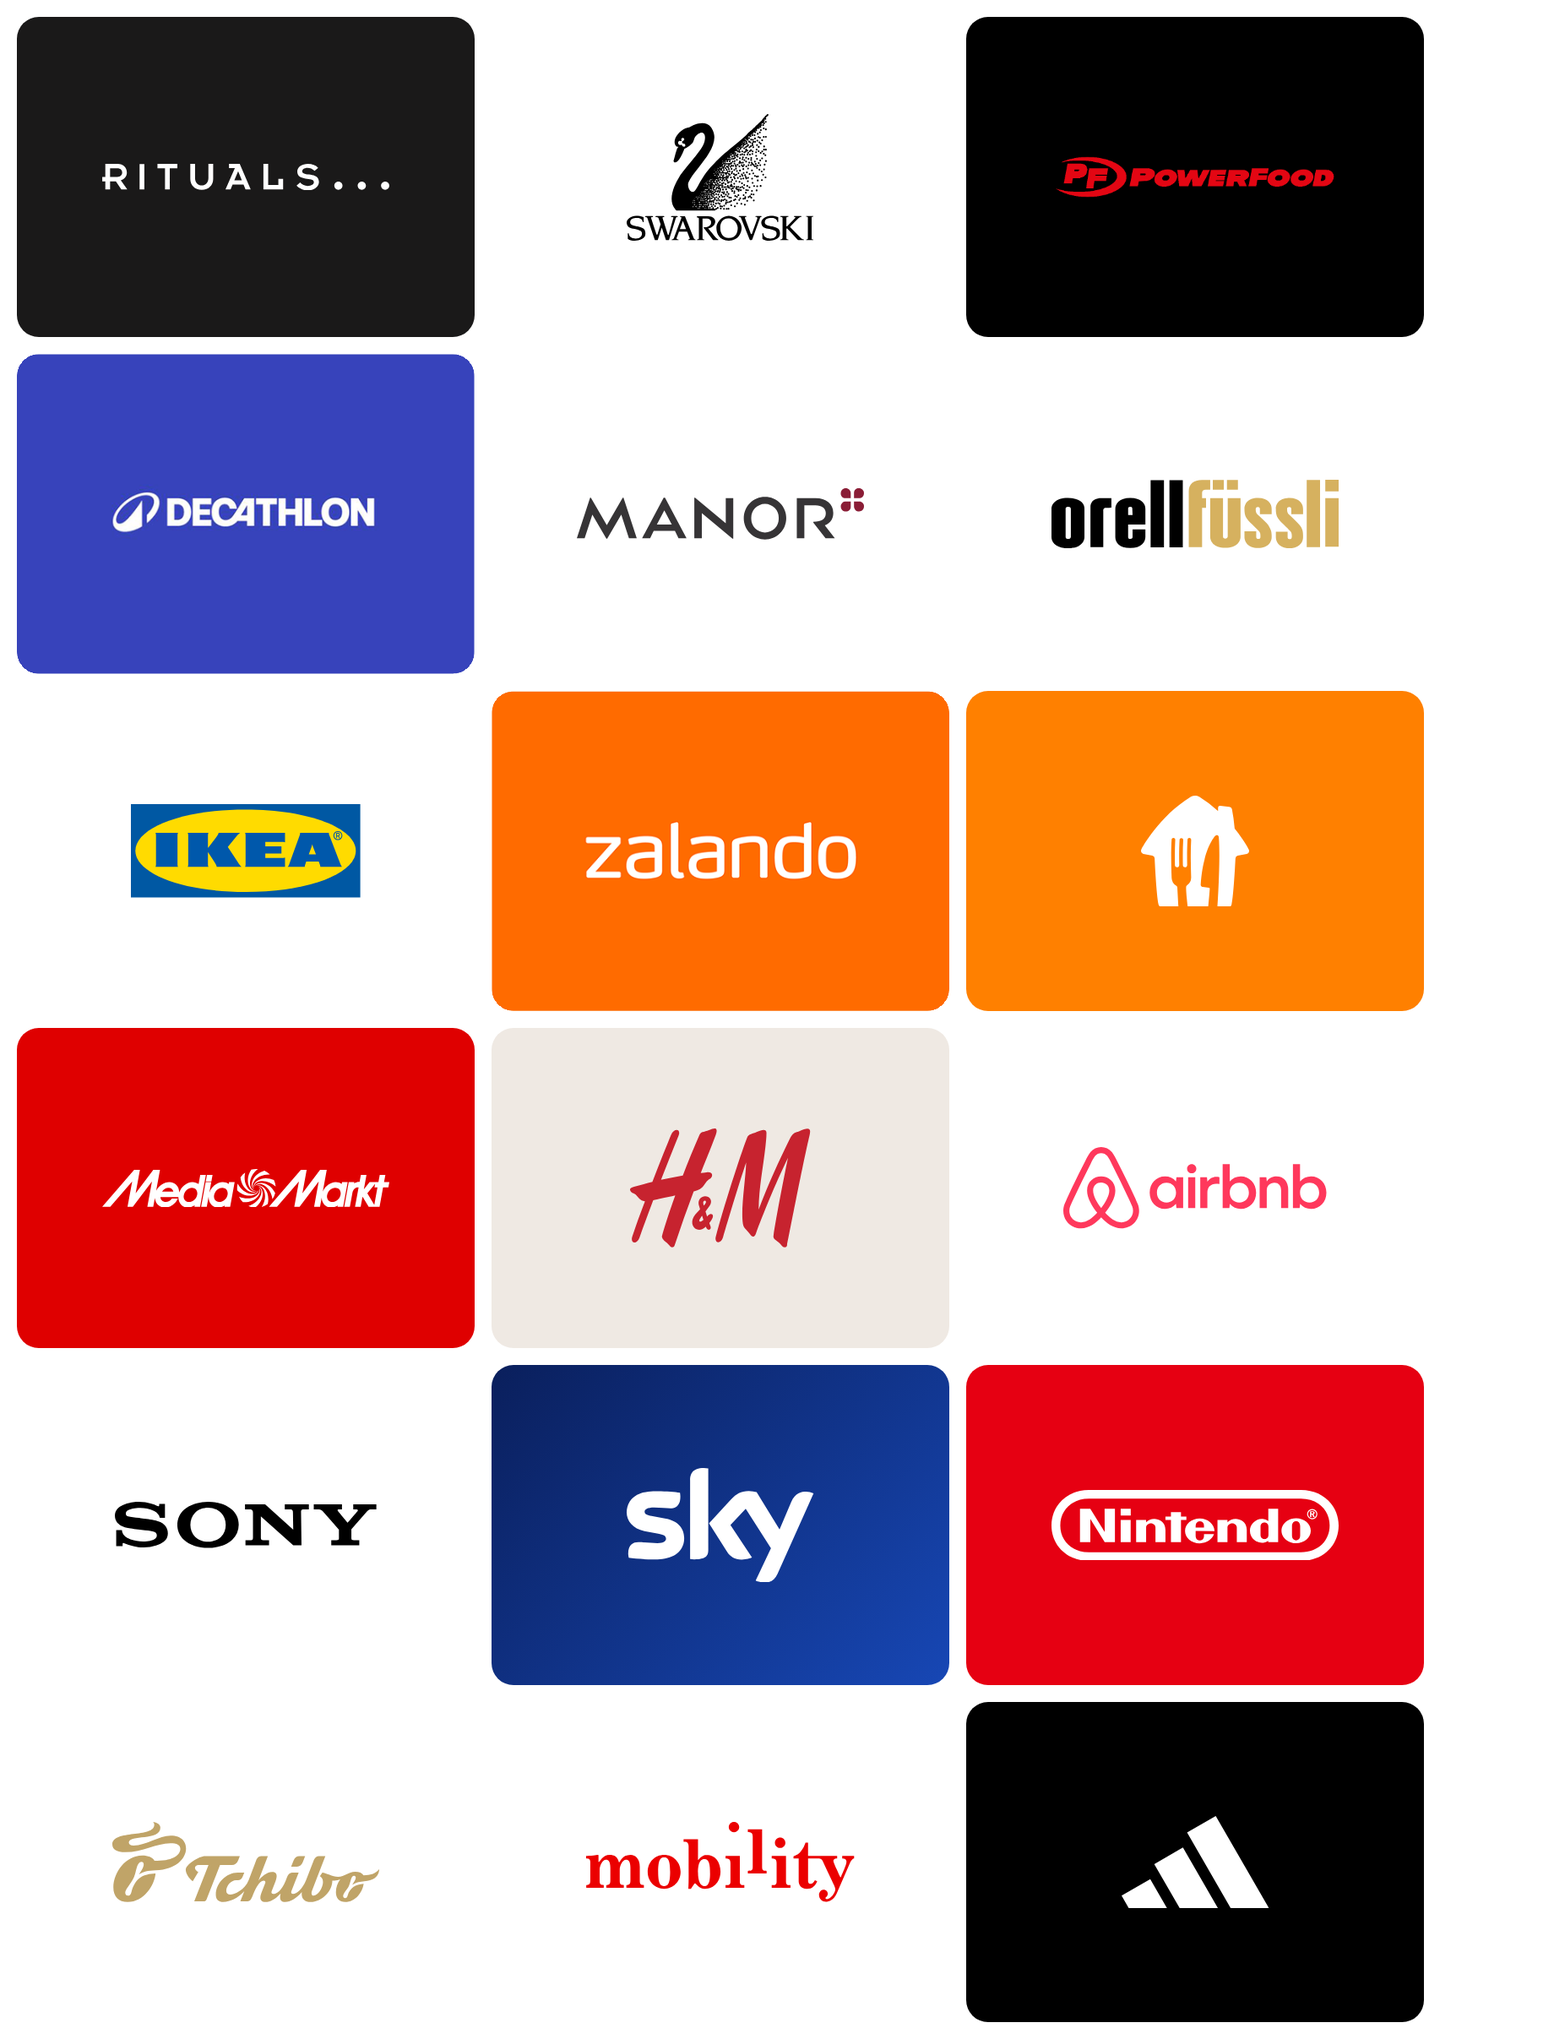
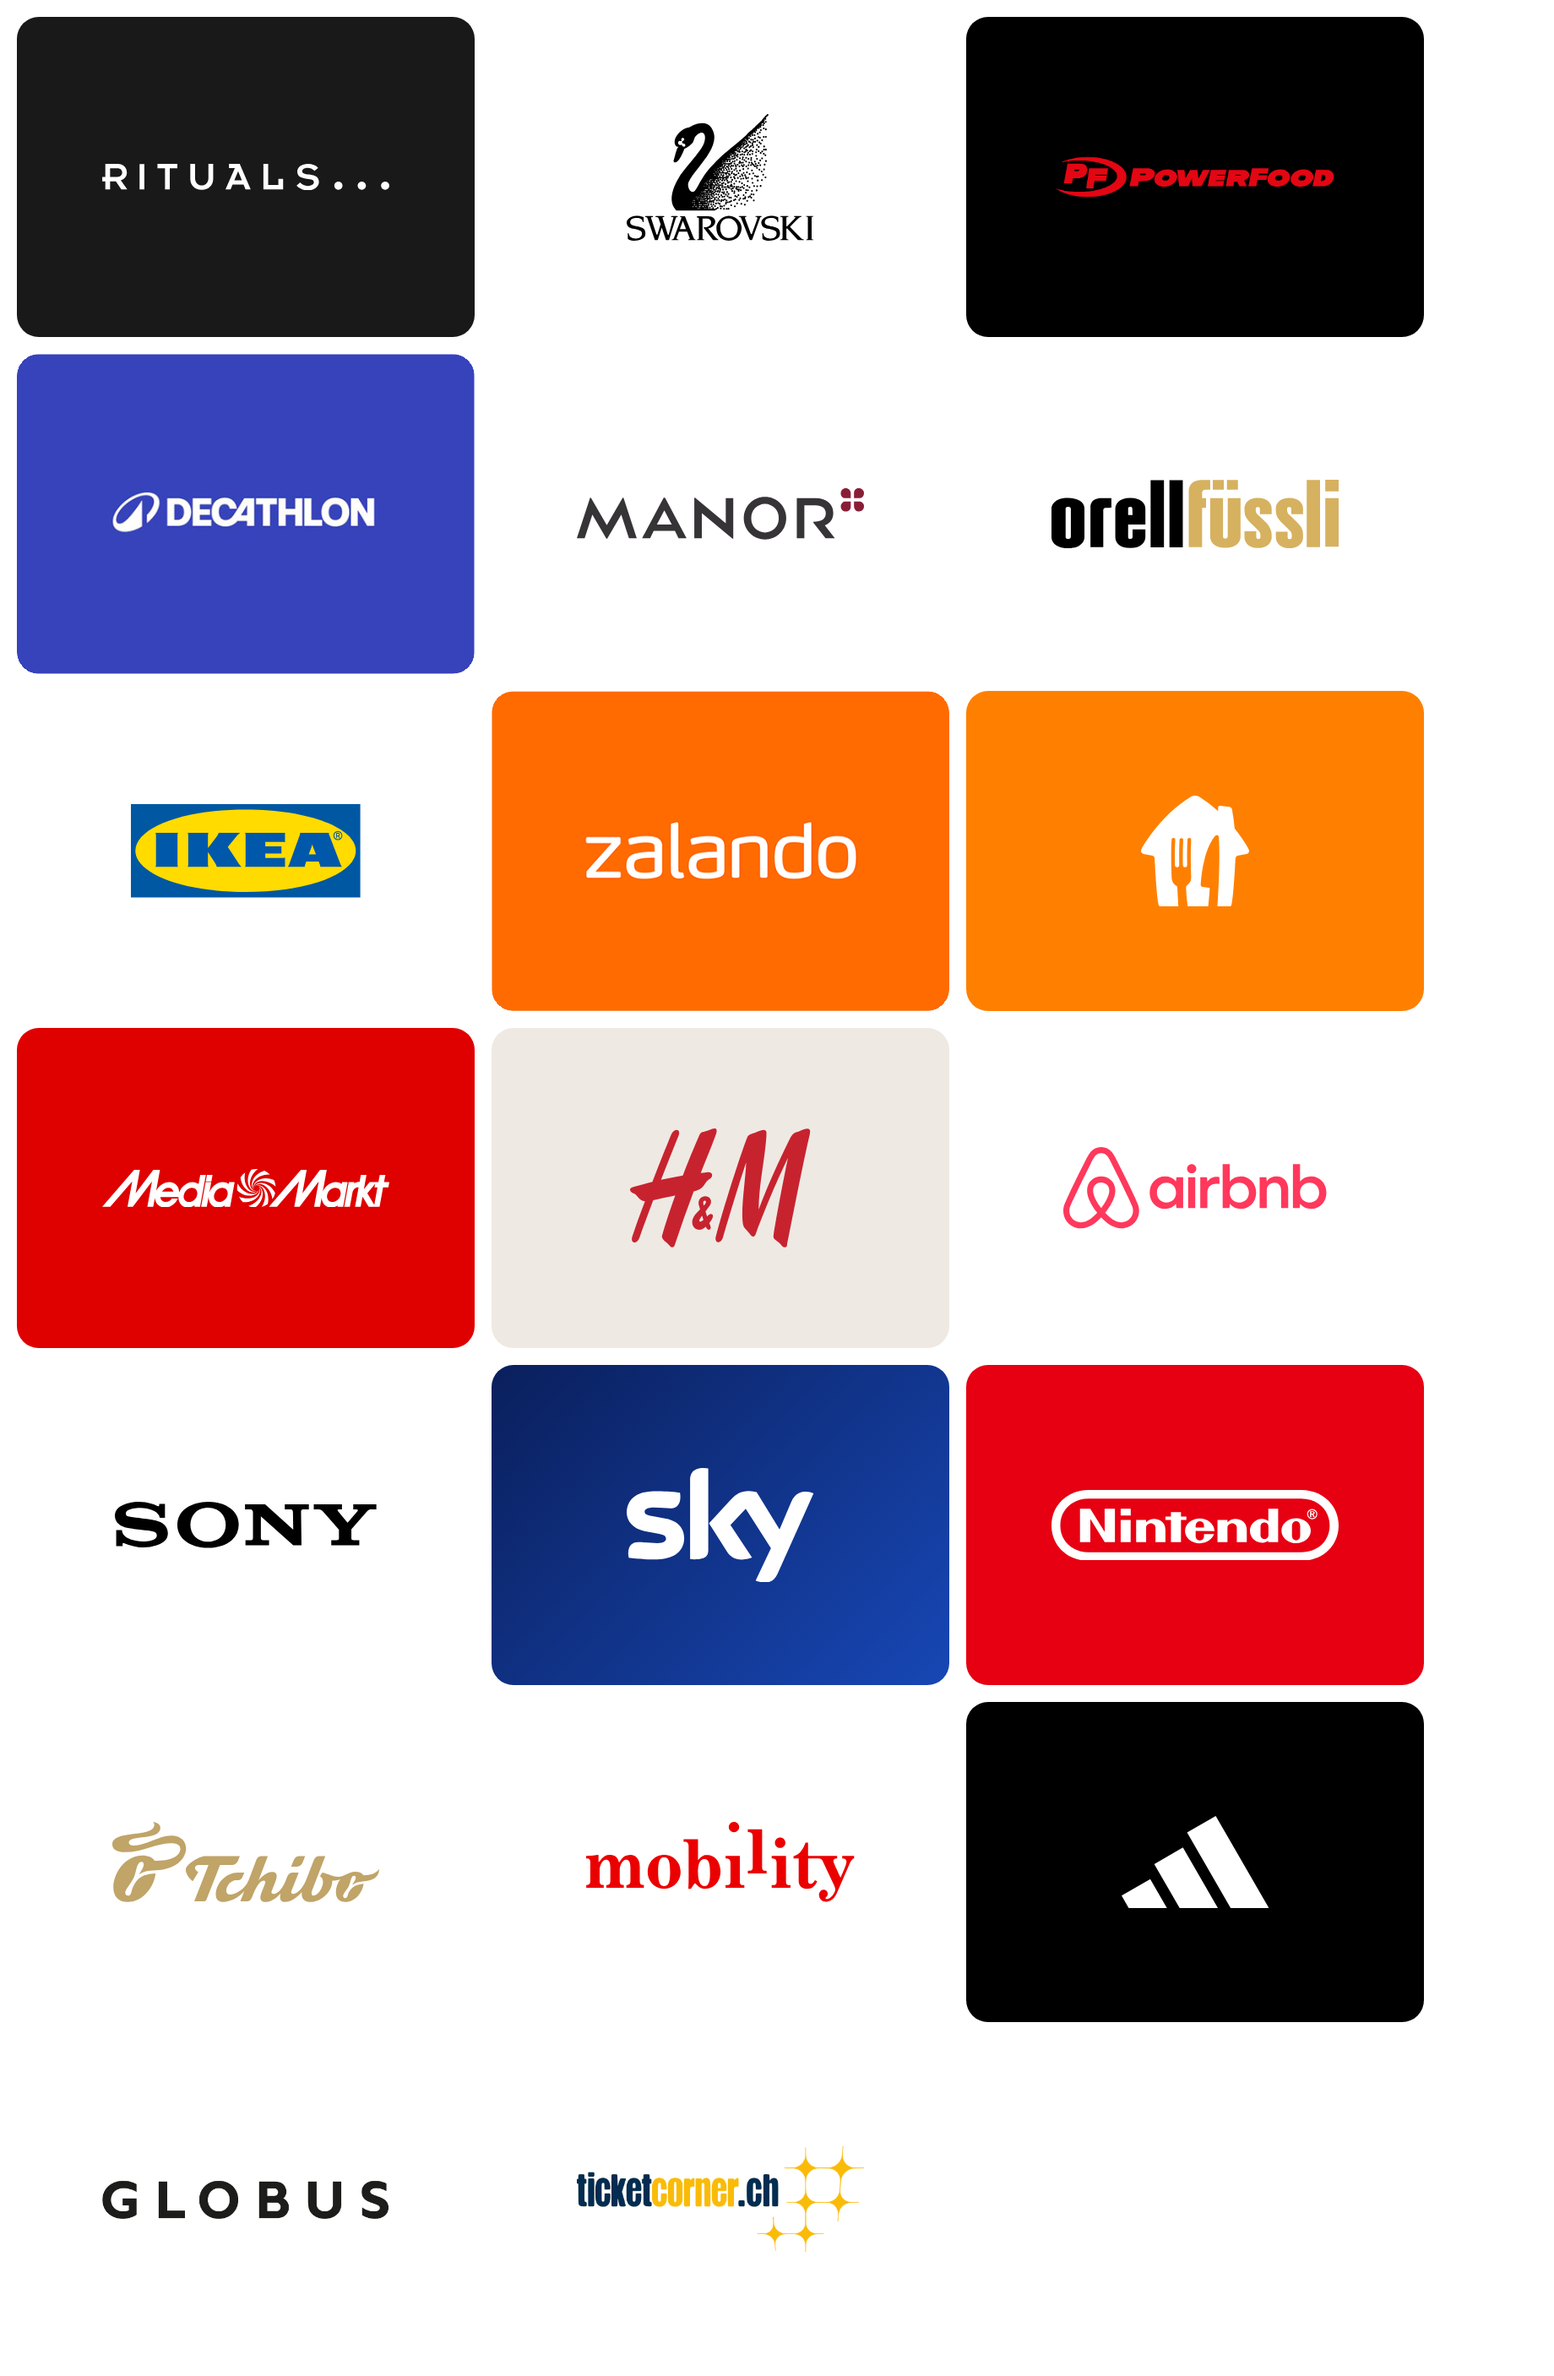
App-Teaser: Globus und Ticketcorner ergaenzt, Swarovski-Text 1895
Claude-Session: https://claude.ai/code/session_01EPwibJ8KXm8GrN7qt8Mmr4

diff --git a/app-kampagne/teaser/index.html b/app-kampagne/teaser/index.html
@@ -214,7 +214,7 @@ applyTexts(C);
 // Entdecken-Raster: Kacheln + Texte wie in der App (Masse per Pixelvergleich kalibriert:
 // Titel Poppins 600 40 px, Text 500 36 px, Badge 500 37 px auf #D8C28F). Texte aus den App-Screenshots.
 const CARDS = [
-  { img: 'card-swarovski', t: 'Swarovski', d: 'Seit 1985 hat der Gründer Da...', c: '8% Cashback' },
+  { img: 'card-swarovski', t: 'Swarovski', d: 'Seit 1895 hat der Gründer Da...', c: '8% Cashback' },
   { img: 'brand-powerfood', t: 'PowerFood', d: 'Als Geschenkidee ein Power...', c: '7% Cashback' },
   { img: 'brand-manor', t: 'Manor', d: 'Erfüllen Sie viele Wünsche m...', c: '5% Cashback' },
   { img: 'brand-orellfuessli', t: 'Orell Füssli', d: 'Bei Orell Füssli finden Sie me...', c: '5% Cashback' },
@@ -245,7 +245,7 @@ document.getElementById('phL-ov').innerHTML = [0, 1, 2].map((k) =>
 
 // Hook: Markenkacheln (einheitliches Format, teaser/brands/), je Reihe versetzt
 const BR = ['rituals', 'swarovski', 'powerfood', 'decathlon', 'manor', 'orellfuessli', 'ikea', 'zalando', 'justeat',
-  'mediamarkt', 'hm', 'airbnb', 'sony', 'skysport', 'nintendo', 'tchibo', 'mobility', 'adidas'];
+  'mediamarkt', 'hm', 'airbnb', 'ticketcorner', 'sony', 'skysport', 'nintendo', 'tchibo', 'mobility', 'adidas', 'globus'];
 const STREAM = [0, 1, 2, 3].map((r) => Array.from({ length: 10 }, (_, i) => BR[(i * 7 + r * 5) % BR.length]));
 document.getElementById('stream').innerHTML = [0, 1, 2, 3].map((r) =>
   `<div class="srow" id="sr${r}" style="top:${r * 214}px">${STREAM[r].map((n) => `<img src="img/brand-${n}.png" alt="">`).join('')}</div>`).join('');

diff --git a/app-kampagne/teaser/brands/tiles.html b/app-kampagne/teaser/brands/tiles.html
@@ -41,6 +41,8 @@ window.BRANDS = [
   { n: 'tchibo', bg: '#FFFFFF', logo: 'logos/tchibo.svg' },
   { n: 'mobility', bg: '#FFFFFF', logo: 'logos/mobility.svg' },
   { n: 'adidas', bg: '#000000', logo: 'logos/adidas.svg', k: 0.8 },
+  { n: 'globus', bg: '#FFFFFF', logo: 'logos/globus.png', k: 0.95 },
+  { n: 'ticketcorner', bg: '#FFFFFF', logo: 'logos/ticketcorner.png', k: 1.35 },
 ];
 
 async function logoEl(src) {

diff --git a/app-kampagne/README.md b/app-kampagne/README.md
@@ -38,13 +38,13 @@ out/         fertige Exporte
 
 ## Markenlogos
 
-- **Hook:** 18 einheitliche Markenkacheln (`teaser/img/brand-*.png`, erzeugt mit `node teaser/brands/build-tiles.mjs` aus `teaser/brands/tiles.html`). Alle haben dasselbe Format (542 × 379, wie die App-Kacheln) und dieselbe optische Logofläche.
+- **Hook:** 20 einheitliche Markenkacheln (`teaser/img/brand-*.png`, erzeugt mit `node teaser/brands/build-tiles.mjs` aus `teaser/brands/tiles.html`). Alle haben dasselbe Format (542 × 379, wie die App-Kacheln) und dieselbe optische Logofläche.
 - **Herkunft der Logos (`teaser/brands/logos/`):**
   - von den Websites der Marken: Rituals, Manor, Orell Füssli, IKEA, MediaMarkt, Airbnb, Mobility, Tchibo und PowerFood
   - Simple Icons (offizielle Markenformen, einfarbig): Adidas, Sony, Sky, Nintendo und Just Eat (nur Haus-Symbol)
   - worldvectorlogo: H&M und Swarovski
   - Decathlon und Zalando: Original-Kacheln aus der App
-- **Fehlen noch:** Globus und Ticketcorner. Die aktuellen Logos waren nicht abrufbar (Bot-Schutz bzw. nur veraltete Versionen).
+- **Globus und Ticketcorner:** Logos von allnova geliefert (freigestellt).
 - **App-Szene:** Swarovski, PowerFood, Manor, Orell Füssli, IKEA und Zalando, Texte und Cashback aus den App-Screenshots. PowerFood, Manor und Orell Füssli haben die neuen Logo-Kacheln, weil auf den App-Kacheln das Logo nicht vollständig zu sehen war.
 
 ## Bauen
